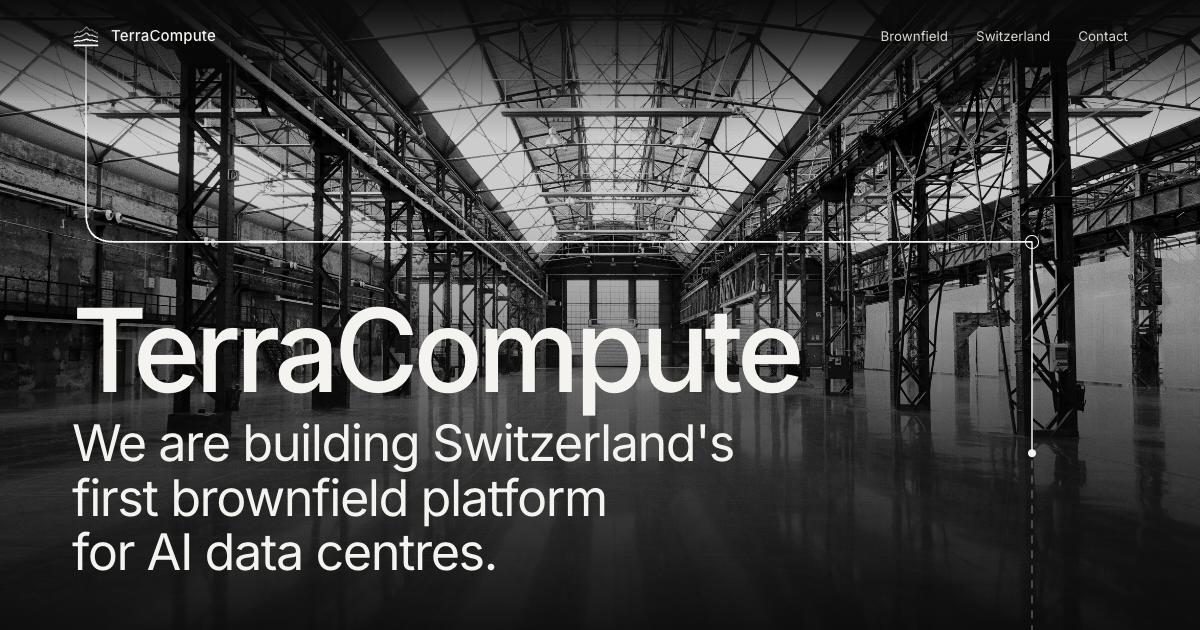
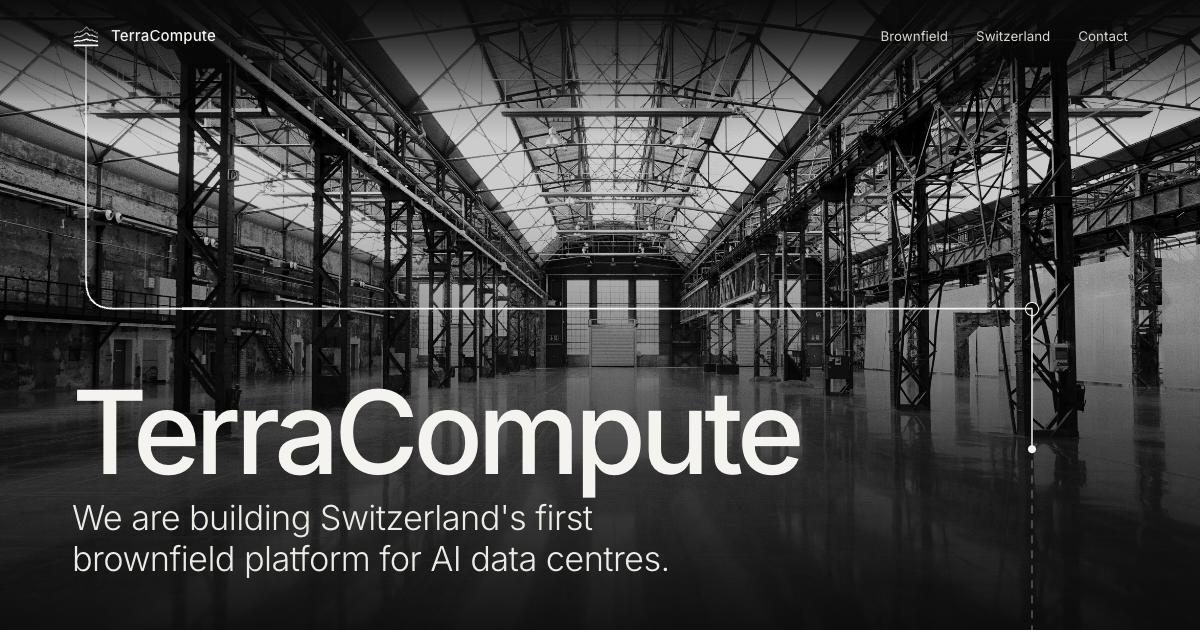
Set the mission line smaller in Inter Light; remove the relief hint

Changed region(s): [[0.0617, 0.4825, 0.8633, 0.9048], [0.0617, 0.3619, 0.8633, 0.3921], [0.8325, 0.6937, 0.8633, 0.7238]]

diff --git a/index.html b/index.html
@@ -95,7 +95,7 @@ h1,h2,h3,p{margin:0}
 .photo .copy{position:absolute;left:var(--g);right:var(--g);bottom:clamp(40px,8vh,80px);max-width:60rem}
 .credit{position:absolute;z-index:14;bottom:clamp(40px,8vh,80px);right:var(--g);font-size:12px;line-height:1.5;color:var(--grey);text-align:right;max-width:20rem;text-shadow:0 0 10px rgba(10,10,10,.9)}
 .hero h1{font-size:var(--s7);font-weight:500;letter-spacing:-.05em;line-height:.9}
-.hero .copy p{margin-top:clamp(14px,2vh,26px);max-width:15em;font-size:clamp(28px,calc(28px + 29 * var(--f)),57px);font-weight:400;line-height:1.08;letter-spacing:-.03em;color:var(--paper);text-wrap:balance}
+.hero .copy p{margin-top:clamp(14px,2vh,24px);max-width:19em;font-size:clamp(22px,calc(22px + 16 * var(--f)),38px);font-weight:300;line-height:1.18;letter-spacing:-.018em;color:#ecebe6;text-wrap:balance}
 
 /* sections broken down: title (step 4), subtitle (step 1), then the details */
 .block{position:relative;padding:clamp(110px,14vh,170px) var(--g) clamp(100px,12vh,150px);max-width:1600px;margin:0 auto}
@@ -117,8 +117,6 @@ h1,h2,h3,p{margin:0}
 .chap:not(.on){opacity:0;transform:translateY(14px)}
 .chap .sub{margin-top:16px}
 .relief .credit{top:auto;bottom:clamp(40px,8vh,80px)}
-.hint-touch{display:none}
-@media (hover:none){.hint-hover{display:none}.hint-touch{display:inline}}
 /* the crosshair: altitude and position of the ground under the pointer */
 .probe{position:absolute;left:0;top:0;z-index:3;pointer-events:none;opacity:0;transition:opacity .2s ease}
 .probe.on{opacity:1}
@@ -210,7 +208,6 @@ footer a{color:var(--paper);text-decoration:none}
   <span class="hole r" data-hole style="--y:12vh"></span>
   <div class="stick">
     <canvas id="relief-cv" role="img" aria-label="Line drawing of the Swiss relief, with the terrain of the neighbouring countries in faint lines, turning as the page scrolls: a power line across the country, the directions to Frankfurt, Milan and Paris, Zürich, and the Alpine reservoirs"></canvas>
-    <p class="credit"><span class="hint-hover">Point at the relief to read the altitude</span><span class="hint-touch">Tap the relief to read the altitude</span></p>
     <div class="probe" id="probe" aria-hidden="true">
       <svg width="22" height="22" viewBox="-11 -11 22 22"><path d="M-10 0H-4M4 0H10M0-10V-4M0 4V10" stroke="#0a0a0a" stroke-width="3.4" stroke-linecap="round"/><path d="M-10 0H-4M4 0H10M0-10V-4M0 4V10" stroke="#f4f3ef" stroke-width="1.2" stroke-linecap="round"/><circle r="1.5" fill="#f4f3ef"/></svg>
       <span class="read"><span class="alt"></span><span class="geo"></span></span>
